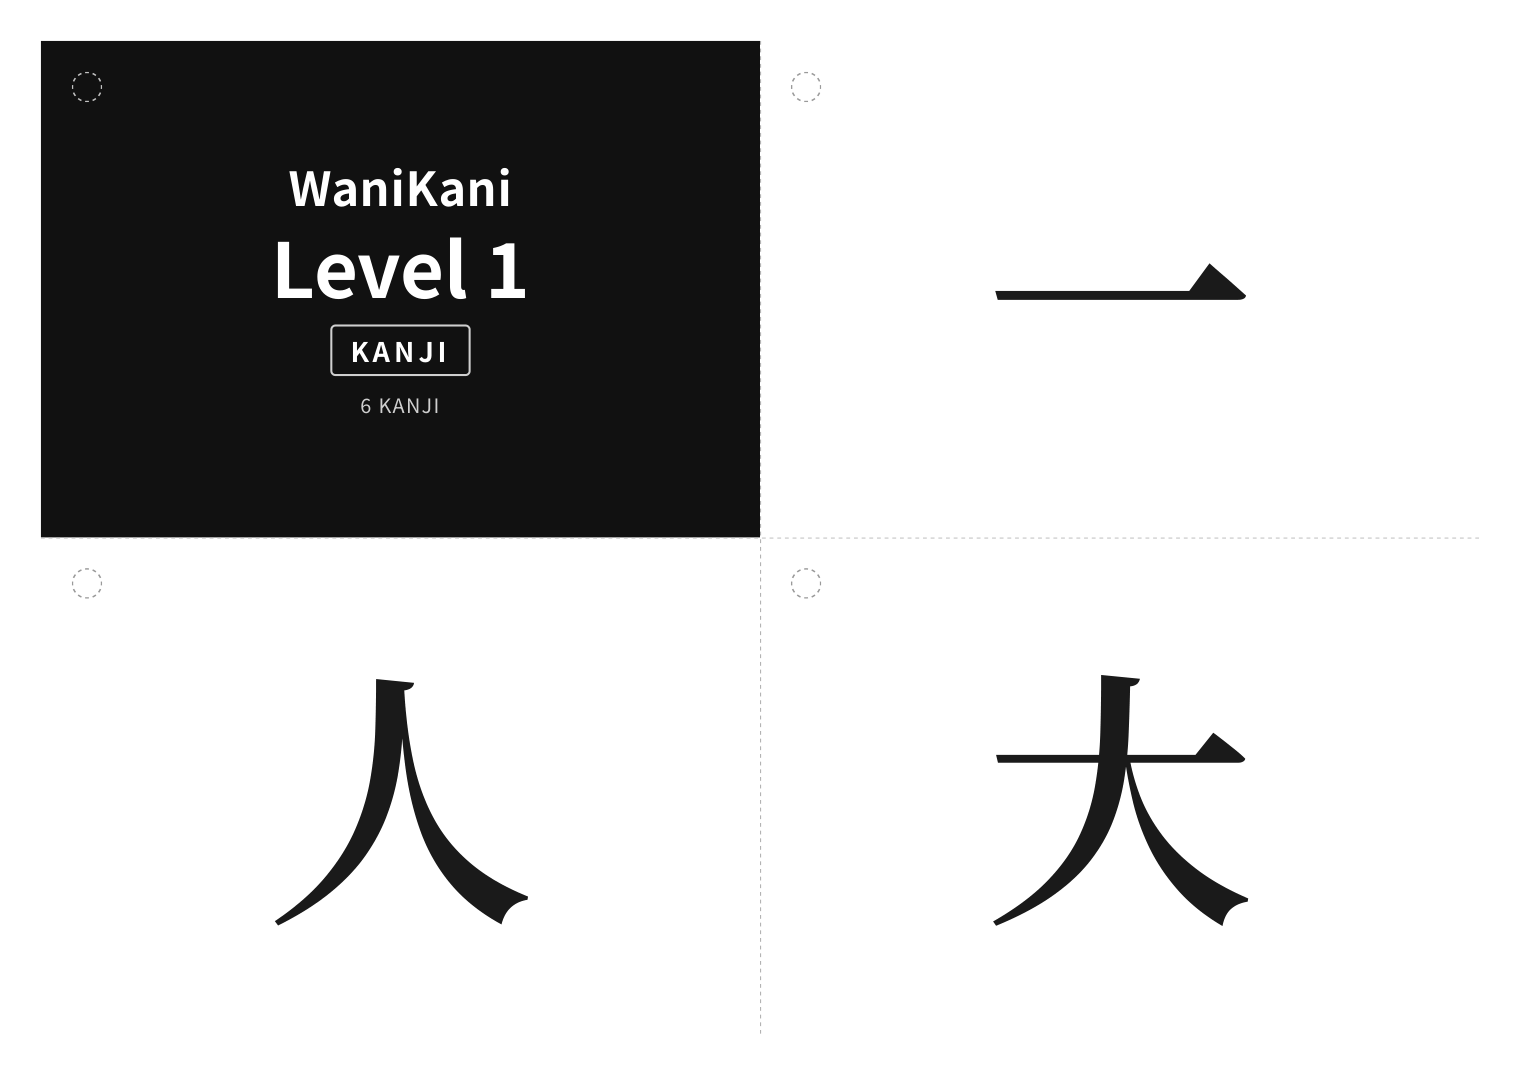
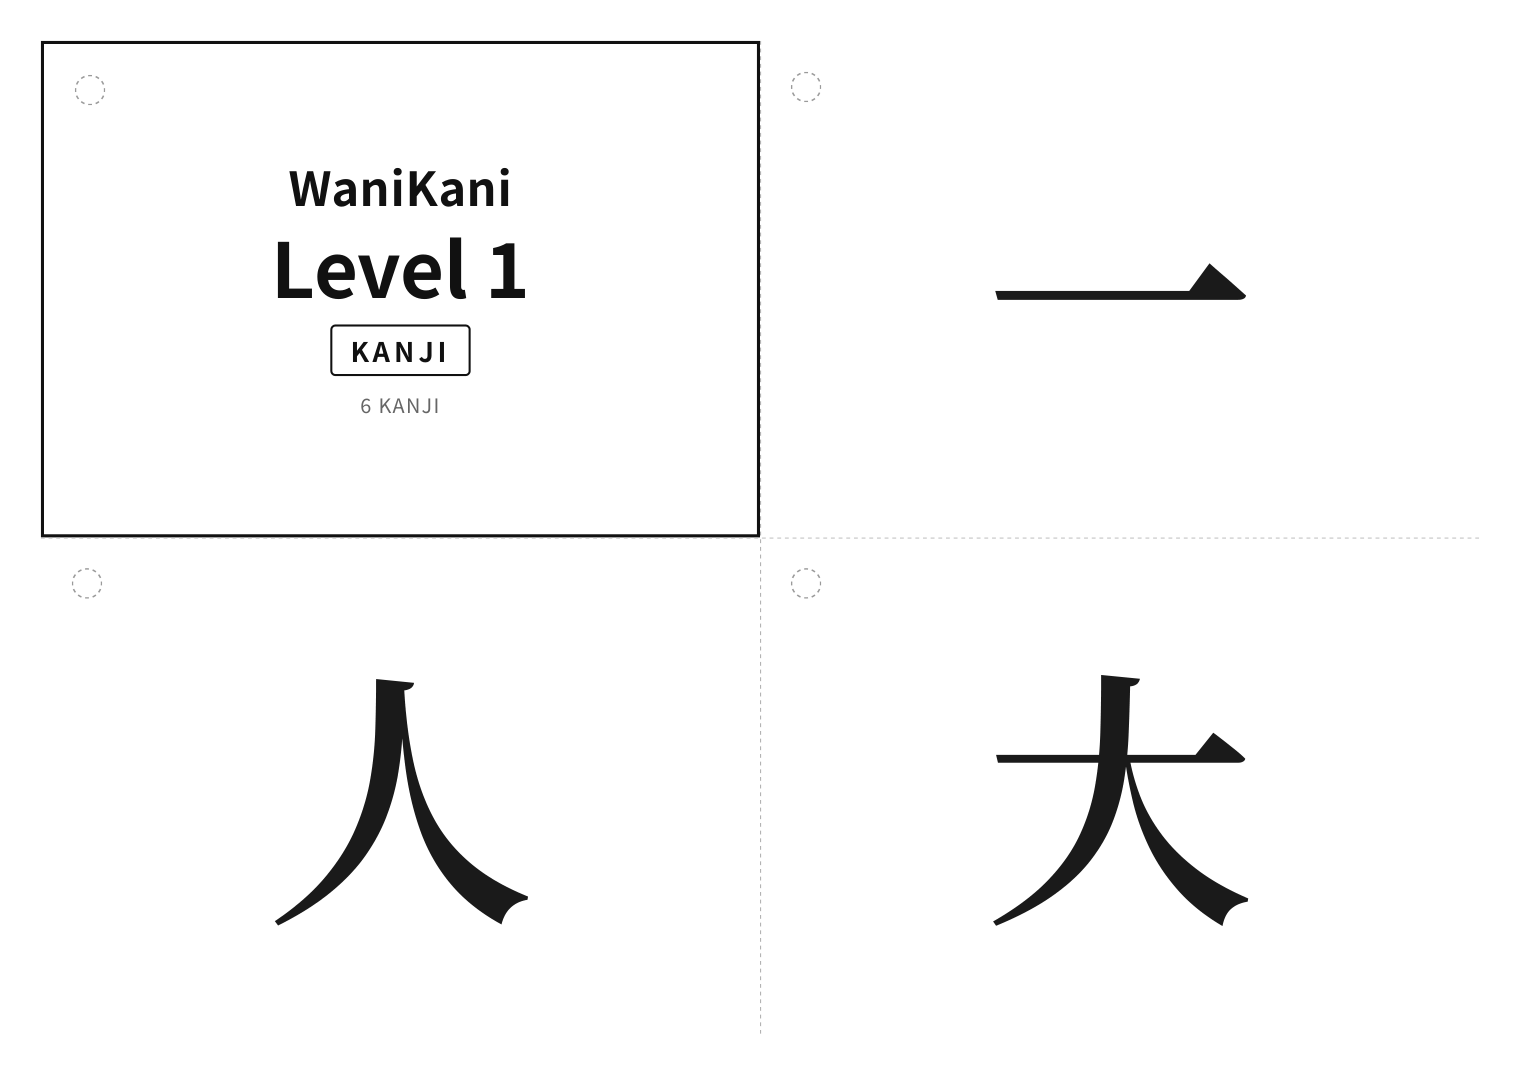
Deckkarte schwarz auf weiß (tintensparend); Radical-Bilder + A6 bestätigt
- Deckkarte: weißer Hintergrund, schwarze Schrift, dezenter Rahmen statt
  vollflächigem Schwarz → deutlich weniger Tinte
- Radical-Bild (WaniKani character_images) wird generell eingebettet, sobald
  vorhanden – nicht nur bei zeichenlosen Radicals; Sample zeigt das jetzt auch
  an einem Zeichen-Radical (山)
- Bestätigt: --type radicals kombiniert mit --layout a6 druckt eine Karte pro
  A6-Seite (kein Schneiden)
- Previews + README aktualisiert

Claude-Session: https://claude.ai/code/session_01RrrcutmiVCxLkx2eMuKrr7

Changed region(s): [[0.0309, 0.0307, 0.5253, 0.5219]]

diff --git a/README.md b/README.md
@@ -26,9 +26,13 @@ CLI-Tool (Python 3), das aus einem **WaniKani-Level** doppelseitig bedruckbare
 
 Weitere Eigenschaften:
 
-- **Deckkarte** (schwarz-weiß) als erste Karte: vorne „WaniKani – Level N" mit
-  Untertitel **Kanji** bzw. **Radicals**, hinten eine Übersicht aller Einträge
-  mit Bedeutung. Abschaltbar mit `--no-cover`.
+- **Deckkarte** als erste Karte (**schwarze Schrift auf weißem Grund** –
+  tintensparend): vorne „WaniKani – Level N" mit Untertitel **Kanji** bzw.
+  **Radicals**, hinten eine Übersicht aller Einträge mit Bedeutung. Abschaltbar
+  mit `--no-cover`.
+- Jedes Layout (`a4-4up` / `a6`) funktioniert mit beiden Stapel-Typen –
+  Radicals lassen sich also mit `--type radicals --layout a6` ebenfalls **ohne
+  Schneiden** direkt auf A6-Karten drucken.
 - **Lochbereich oben links** auf jeder Karte (mit dezenter Loch-Markierung) –
   zum Lochen und Aufhängen an einem Ring. Der Bereich ist auf der Rückseite
   spiegelbildlich reserviert, sodass ein einziges Loch durch beide Seiten passt.